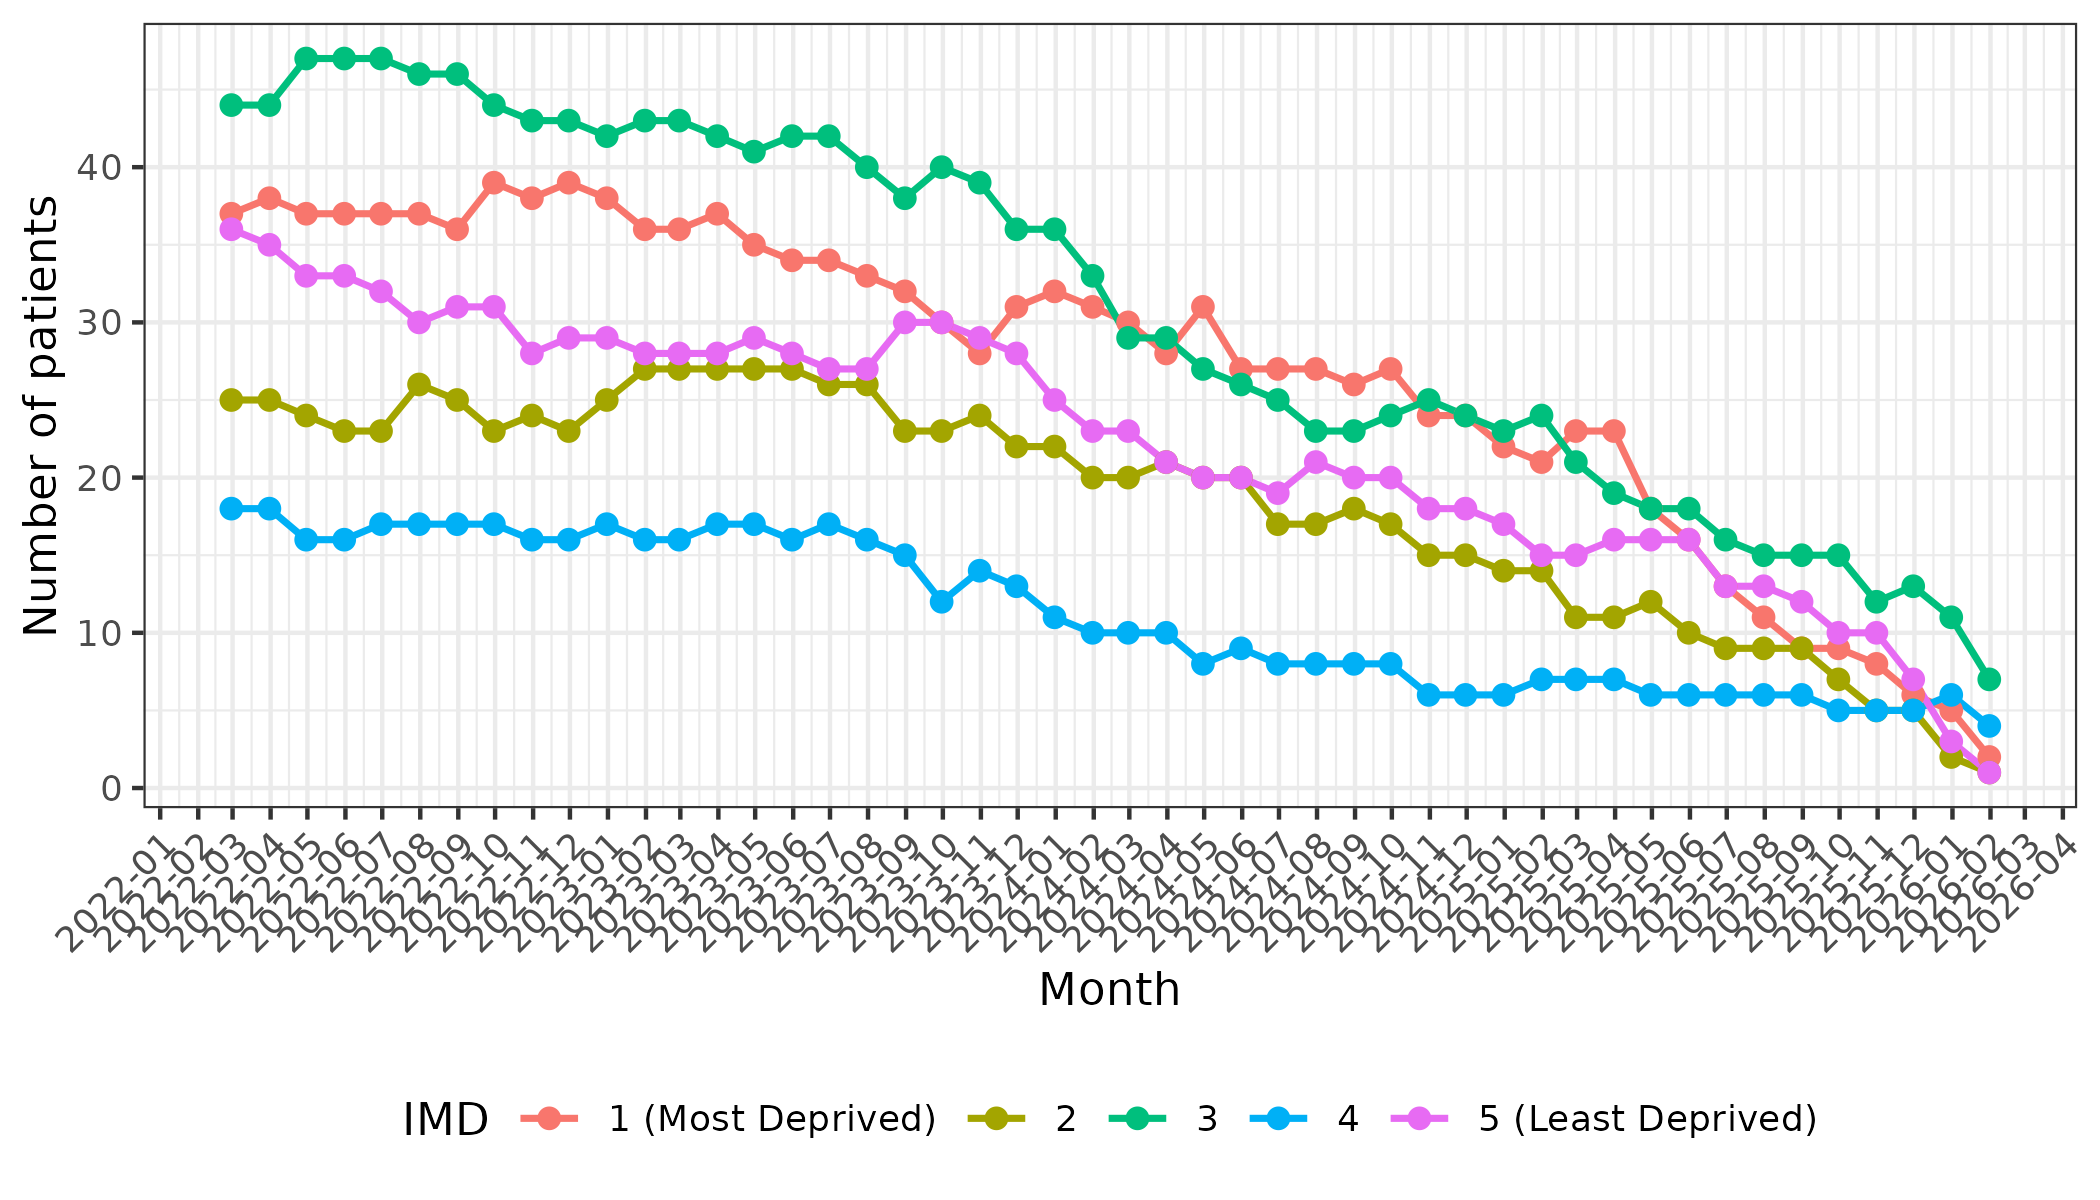
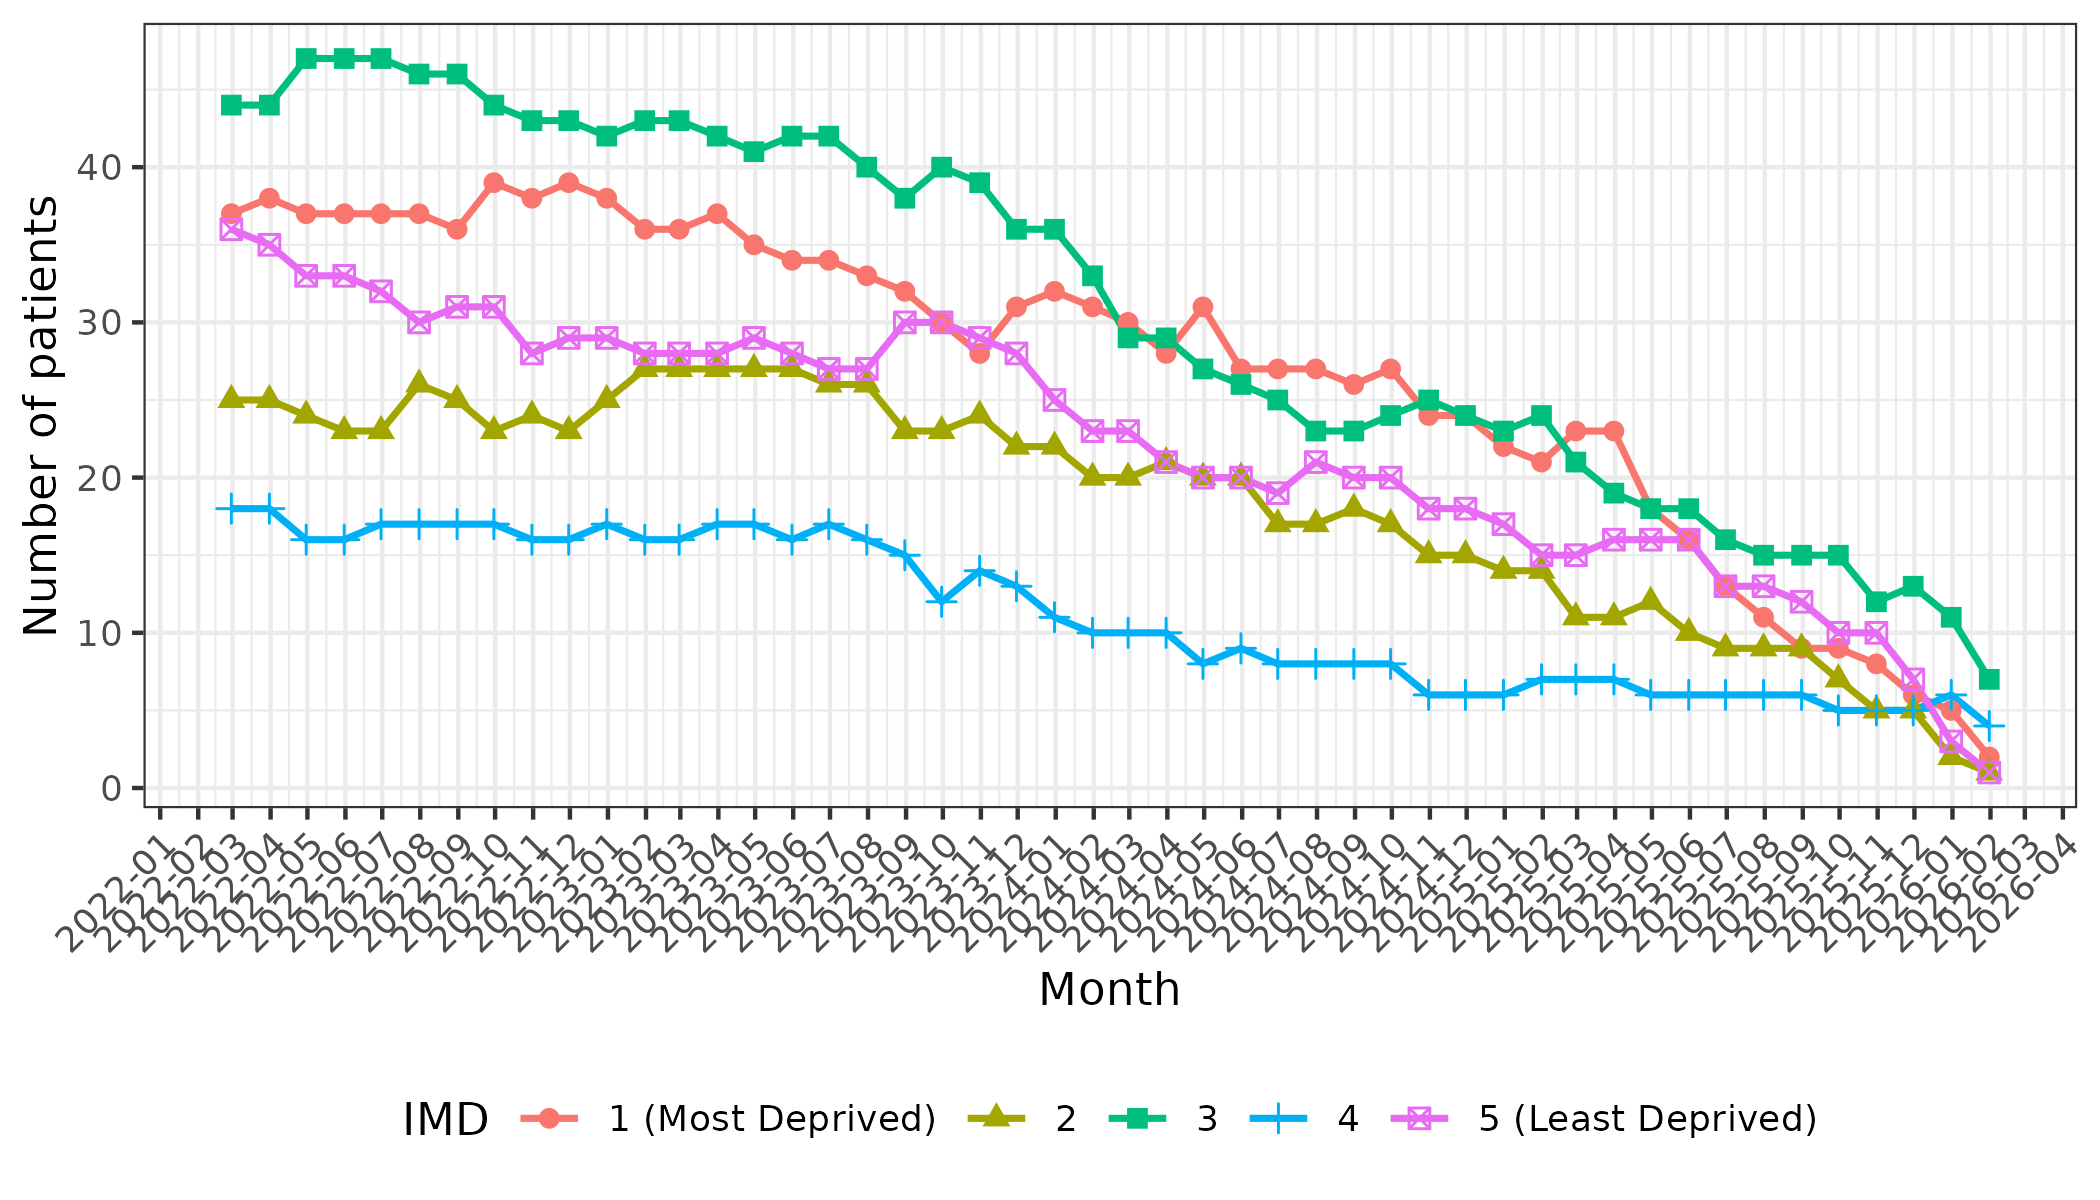
nitrofurantoin

diff --git a/analysis/dataset_definition_patients_measures_Arnaud.py b/analysis/dataset_definition_patients_measures_Arnaud.py
@@ -1672,7 +1672,8 @@ measures.define_measure(
     intervals=months(48).starting_on("2022-02-01"),
 )
 #IV.Medications
- # Debugg measures
+
+# Debugg measures
 #----------------------------------------#
 # Keys codes to run in  VSC terminal     #
 #----------------------------------------#